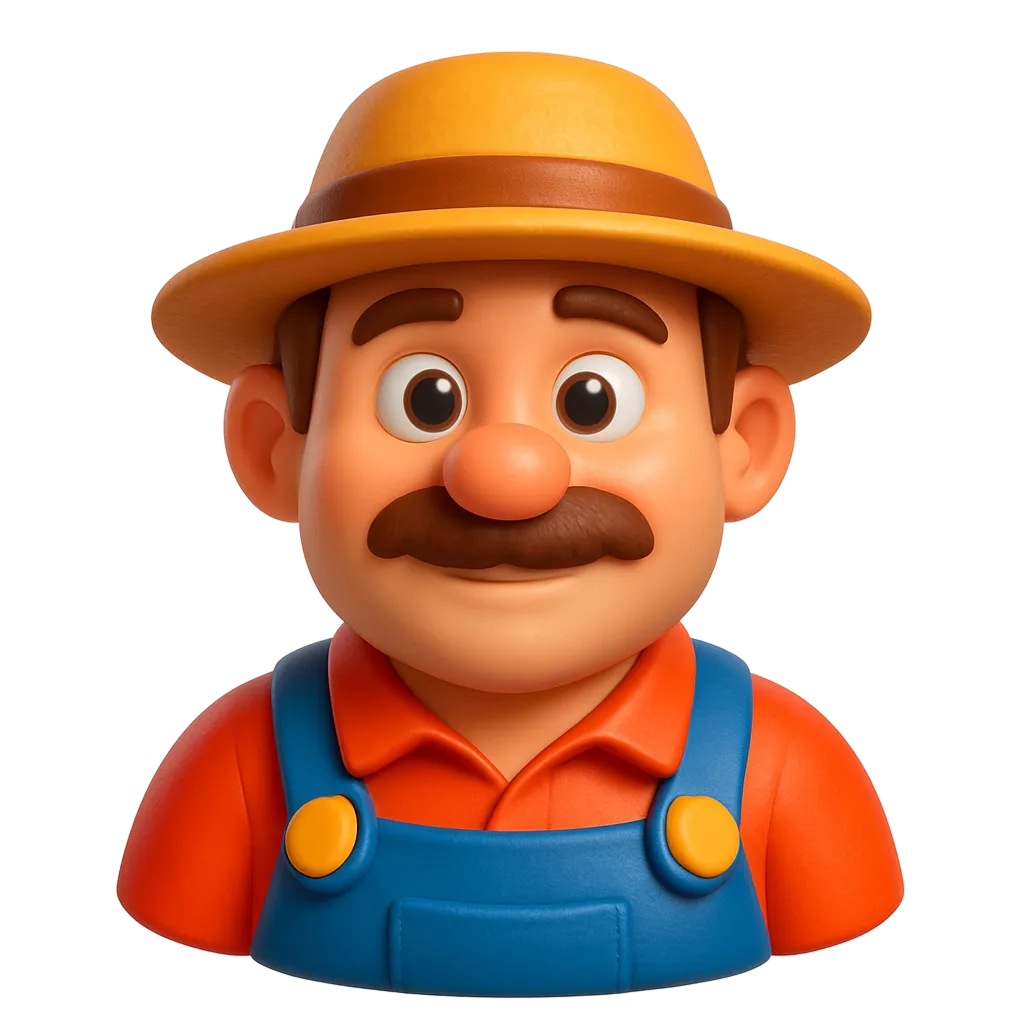
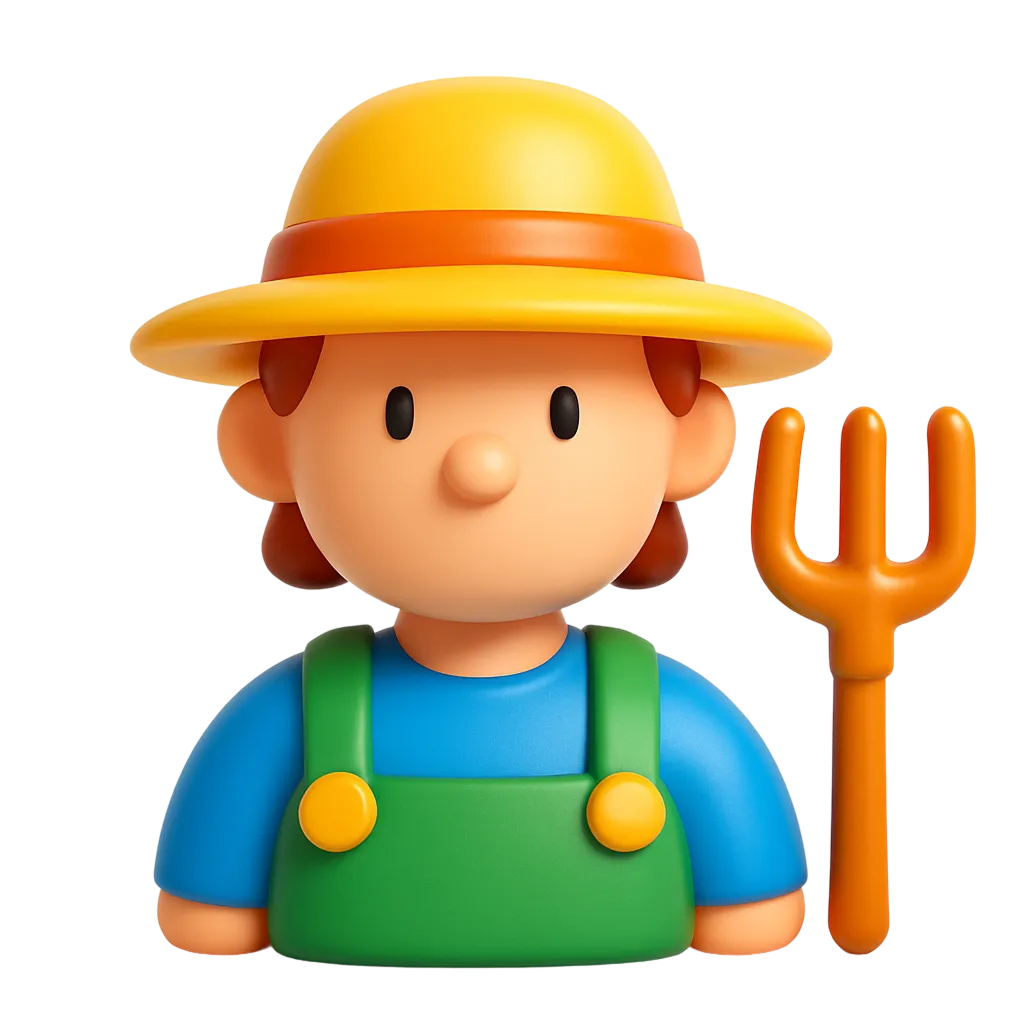
Добавлены картинки для аватаров, теплиц и для растений + возможность загрузки пользователями

diff --git a/app/api.py b/app/api.py
@@ -26,6 +26,7 @@ from .schemas import (
     BindSensorIn,
     BindWorkerIn,
     GreenhouseCreate,
+    GreenhouseImageOut,
     GreenhouseOut,
     PlantInstanceCreate,
     PlantInstanceOut,
@@ -282,13 +283,23 @@ def update_user_role(
 
 
 # --- Greenhouses ---
+@router.get("/greenhouse-images", response_model=List[GreenhouseImageOut])
+def list_greenhouse_images():
+    """Получение списка доступных изображений для теплиц."""
+    with engine.connect() as conn:
+        rows = conn.execute(
+            text("SELECT id, image_url, name FROM greenhouse_images ORDER BY name ASC")
+        ).mappings().all()
+        return [GreenhouseImageOut(**r) for r in rows]
+
+
 @router.get("/greenhouses", response_model=List[GreenhouseOut])
 def list_greenhouses(current_user: dict = Depends(get_current_user)):
     """Получение списка теплиц. Админ видит все, рабочий - только привязанные."""
     with engine.connect() as conn:
         if current_user["role"] == "admin":
             sql = """
-                SELECT id, name, description, sensor_id,
+                SELECT id, name, description, image_url, sensor_id,
                        target_temp_min, target_temp_max,
                        target_hum_min, target_hum_max, created_at
                 FROM greenhouses
@@ -297,7 +308,7 @@ def list_greenhouses(current_user: dict = Depends(get_current_user)):
             rows = conn.execute(text(sql)).mappings().all()
         else:
             sql = """
-                SELECT g.id, g.name, g.description, g.sensor_id,
+                SELECT g.id, g.name, g.description, g.image_url, g.sensor_id,
                        g.target_temp_min, g.target_temp_max,
                        g.target_hum_min, g.target_hum_max, g.created_at
                 FROM greenhouses g
@@ -314,22 +325,36 @@ def list_greenhouses(current_user: dict = Depends(get_current_user)):
 def create_greenhouse(payload: GreenhouseCreate, admin: dict = Depends(require_admin)):
     """Создание теплицы. Доступ: admin."""
     gh_id = new_id()
+    
     sql = """
     INSERT INTO greenhouses
-      (id, name, description,
+      (id, name, description, image_url,
        target_temp_min, target_temp_max,
        target_hum_min, target_hum_max)
     VALUES
-      (:id, :name, :description,
+      (:id, :name, :description, :img_url,
        :tmin, :tmax, :hmin, :hmax)
     """
     with engine.begin() as conn:
+        # Проверяем, что выбранное изображение существует (если указано)
+        if payload.image_url:
+            image_exists = conn.execute(
+                text("SELECT 1 FROM greenhouse_images WHERE image_url=:url"),
+                {"url": payload.image_url},
+            ).scalar()
+            if not image_exists:
+                raise HTTPException(
+                    status_code=status.HTTP_400_BAD_REQUEST,
+                    detail="Выбранное изображение не найдено в списке доступных",
+                )
+        
         conn.execute(
             text(sql),
             {
                 "id": gh_id,
                 "name": payload.name,
                 "description": payload.description,
+                "img_url": payload.image_url,
                 "tmin": payload.target_temp_min,
                 "tmax": payload.target_temp_max,
                 "hmin": payload.target_hum_min,
@@ -340,7 +365,7 @@ def create_greenhouse(payload: GreenhouseCreate, admin: dict = Depends(require_a
             conn.execute(
                 text(
                     """
-            SELECT id, name, description, sensor_id,
+            SELECT id, name, description, image_url, sensor_id,
                    target_temp_min, target_temp_max,
                    target_hum_min, target_hum_max, created_at
             FROM greenhouses WHERE id=:id
@@ -375,7 +400,7 @@ def get_greenhouse(gh_id: str, current_user: dict = Depends(get_current_user)):
             conn.execute(
                 text(
                     """
-            SELECT id, name, description, sensor_id,
+            SELECT id, name, description, image_url, sensor_id,
                    target_temp_min, target_temp_max,
                    target_hum_min, target_hum_max, created_at
             FROM greenhouses WHERE id=:id

diff --git a/database.py b/database.py
@@ -13,6 +13,17 @@ def get_default_avatars():
         ("avatar_1", "/static/avatars/avatar_1.png", "avatar 1"),
         ("avatar_2", "/static/avatars/avatar_2.png", "avatar 2"),
         ("avatar_3", "/static/avatars/avatar_3.png", "avatar 3"),
+        ("avatar_3", "/static/avatars/avatar_3.png", "avatar 4"),
+    ]
+
+
+def get_default_greenhouse_images():
+    """Возвращает список базовых изображений для теплиц."""
+    # Используем локальные пути на сервере
+    return [
+        ("greenhouse_1", "/static/greenhouses/greenhouse_1.png", "Greenhouse 1"),
+        ("greenhouse_2", "/static/greenhouses/greenhouse_2.png", "Greenhouse 2"),
+        ("greenhouse_3", "/static/greenhouses/greenhouse_3.png", "Greenhouse 3"),
     ]
 
 
@@ -22,6 +33,14 @@ def get_schema_statements():
         # Сначала создаём таблицы без внешних ключей
         """
         CREATE TABLE IF NOT EXISTS avatars (
+            id            TEXT NOT NULL PRIMARY KEY,
+            image_url     TEXT NOT NULL,
+            name          TEXT,
+            created_at    DATETIME NOT NULL DEFAULT CURRENT_TIMESTAMP
+        );
+        """,
+        """
+        CREATE TABLE IF NOT EXISTS greenhouse_images (
             id            TEXT NOT NULL PRIMARY KEY,
             image_url     TEXT NOT NULL,
             name          TEXT,
@@ -54,6 +73,7 @@ def get_schema_statements():
             id               TEXT NOT NULL PRIMARY KEY,
             name             TEXT NOT NULL,
             description      TEXT,
+            image_url        TEXT,
             sensor_id        TEXT UNIQUE,
             target_temp_min  REAL,
             target_temp_max  REAL,
@@ -208,6 +228,18 @@ def ensure_schema(engine: Engine, db_path: str = None):
                     {"id": avatar_id, "url": image_url, "name": name}
                 )
             logger.info(f"Добавлено {len(avatars)} базовых аватарок")
+    
+    # Заполняем изображения теплиц, если таблица пустая
+    with engine.begin() as conn:
+        existing_count = conn.execute(text("SELECT COUNT(*) FROM greenhouse_images")).scalar()
+        if existing_count == 0:
+            images = get_default_greenhouse_images()
+            for image_id, image_url, name in images:
+                conn.execute(
+                    text("INSERT INTO greenhouse_images (id, image_url, name) VALUES (:id, :url, :name)"),
+                    {"id": image_id, "url": image_url, "name": name}
+                )
+            logger.info(f"Добавлено {len(images)} базовых изображений теплиц")
     
     logger.info("Схема базы данных успешно инициализирована")
 

diff --git a/app/schemas.py b/app/schemas.py
@@ -38,6 +38,7 @@ class TokenData(BaseModel):
 class GreenhouseCreate(BaseModel):
     name: str
     description: Optional[str] = None
+    image_url: Optional[str] = None
     target_temp_min: Optional[float] = None
     target_temp_max: Optional[float] = None
     target_hum_min: Optional[float] = None
@@ -48,6 +49,7 @@ class GreenhouseOut(BaseModel):
     id: str
     name: str
     description: Optional[str] = None
+    image_url: Optional[str] = None
     sensor_id: Optional[str] = None
     target_temp_min: Optional[float] = None
     target_temp_max: Optional[float] = None
@@ -160,6 +162,12 @@ class AvatarUpdate(BaseModel):
 
 
 class AvatarOut(BaseModel):
+    id: str
+    image_url: str
+    name: Optional[str] = None
+
+
+class GreenhouseImageOut(BaseModel):
     id: str
     image_url: str
     name: Optional[str] = None

diff --git a/app/config.py b/app/config.py
@@ -41,10 +41,12 @@ BASE_DIR = os.path.dirname(os.path.dirname(os.path.abspath(__file__)))
 STATIC_DIR = os.path.join(BASE_DIR, "static")
 AVATARS_DIR = os.path.join(STATIC_DIR, "avatars")
 PLANT_TYPES_DIR = os.path.join(STATIC_DIR, "plant-types")
+GREENHOUSES_DIR = os.path.join(STATIC_DIR, "greenhouses")
 
 # Создаём папки при старте, если их нет
 os.makedirs(AVATARS_DIR, exist_ok=True)
 os.makedirs(PLANT_TYPES_DIR, exist_ok=True)
+os.makedirs(GREENHOUSES_DIR, exist_ok=True)
 
 
 @event.listens_for(engine, "connect")
